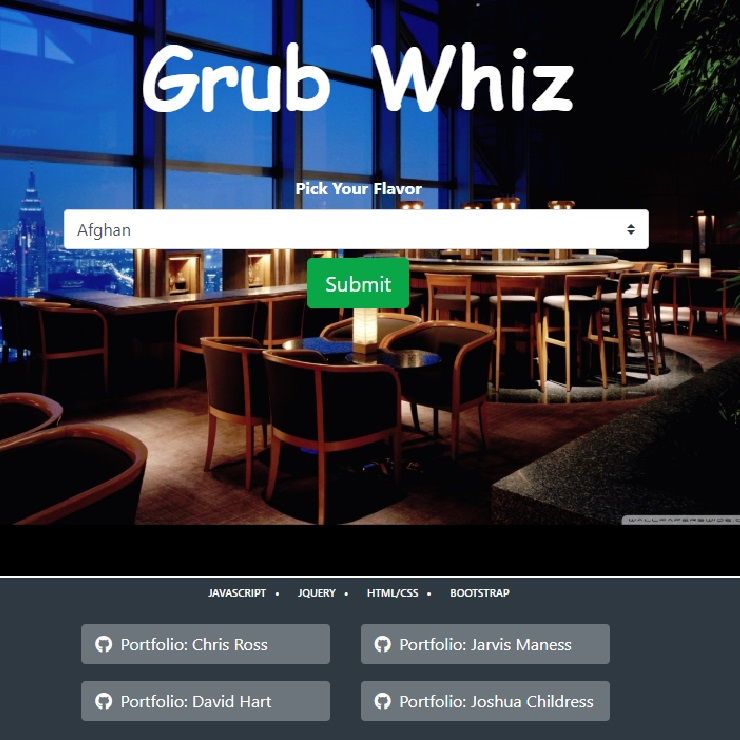
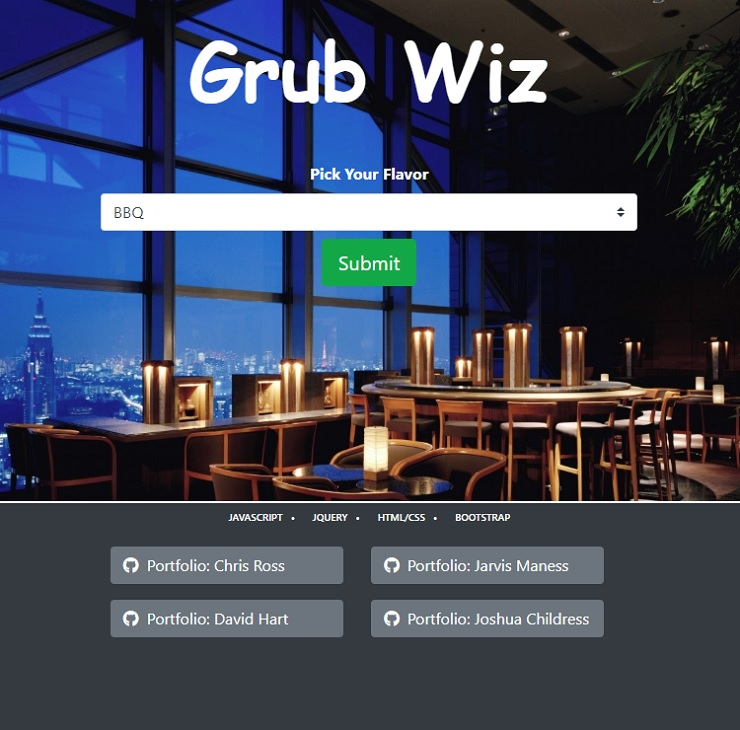
Added Java project, new image for project 1

diff --git a/assets/javascript/objects.js b/assets/javascript/objects.js
@@ -1,7 +1,7 @@
 const PROJECTS = [];
 
 PROJECTS.push(new Project(
-    "Grub Whiz",
+    "Grub Wiz",
     "This resturant finding application uses APIs and was developed using agile methodology during a two week period on a team of four.",
     "GrubWiz.jpg",
     "Grub Whiz Restuarant Finder",
@@ -17,12 +17,12 @@ PROJECTS.push(new Project(
     "https://vtchris.github.io/RPS-Multiplayer/"
 ));
 PROJECTS.push(new Project(
-    "News Scraper",
-    "This full stack application uses axios and cheerio to scrape news articles from NPR.org. This site uses a Mongo database to store articles and user comments.",
-    "scraper.jpg",
-    "NPR World News Scraper",
-    "https://github.com/vtchris/scrape-news",
-    "https://whats-new-scraper.herokuapp.com"
+    "JAVA Banking API",
+    "This JAVA application uses RESTful APIs and MVC design pattern. Security is provided by a session cookie. Postman used to make endpoint calls.",
+    "changeBank.jpg",
+    "JAVA Banking API",
+    "https://github.com/vtchris/rocp-1-project-vtchris",
+    "https://github.com/vtchris/rocp-1-project-vtchris"
 ));
 PROJECTS.push(new Project(
     "World Domination - Step 1",
@@ -31,6 +31,14 @@ PROJECTS.push(new Project(
     "React World Domination Game",
     "https://github.com/vtchris/clicky-game",
     "https://world-domination-step1.herokuapp.com"
+));
+PROJECTS.push(new Project(
+    "News Scraper",
+    "This full stack application uses axios and cheerio to scrape news articles from NPR.org. This site uses a Mongo database to store articles and user comments.",
+    "scraper.jpg",
+    "NPR World News Scraper",
+    "https://github.com/vtchris/scrape-news",
+    "https://github.com/vtchris/scrape-news"
 ));
 PROJECTS.push(new Project(
     "Sentenced: Trivia Game",

diff --git a/assets/javascript/portfolio.js b/assets/javascript/portfolio.js
@@ -59,7 +59,7 @@ function display_about(){
 
     //Add paragraphs
     let p1 = document.createElement('p');
-    p1.innerText = "I'm Chris Ross - I enjoy web development and I'm currently in a Coding Bootcamp at the University of North Carolina Charlotte to improve my skills. I like to create sites with a clean, uncluttered, and intuitive look. I look forward to strengthening and improving my skill set!"
+    p1.innerText = "I'm Chris Ross - I enjoy web development and I'm currently working on JAVA in a program offered by Revature. I like to create sites with a clean, uncluttered, and intuitive look. I look forward to strengthening and improving my skill set!"
     col2.appendChild(p1)
     let p2 = document.createElement('p');
     p2.innerText = "I am originally from Vermont and have lived and worked in several cities and states in New England. I recently moved to South Carolina near Charlotte, NC. I also enjoy traveling, and as a glutton for punishment, I attempt to play the violin."
